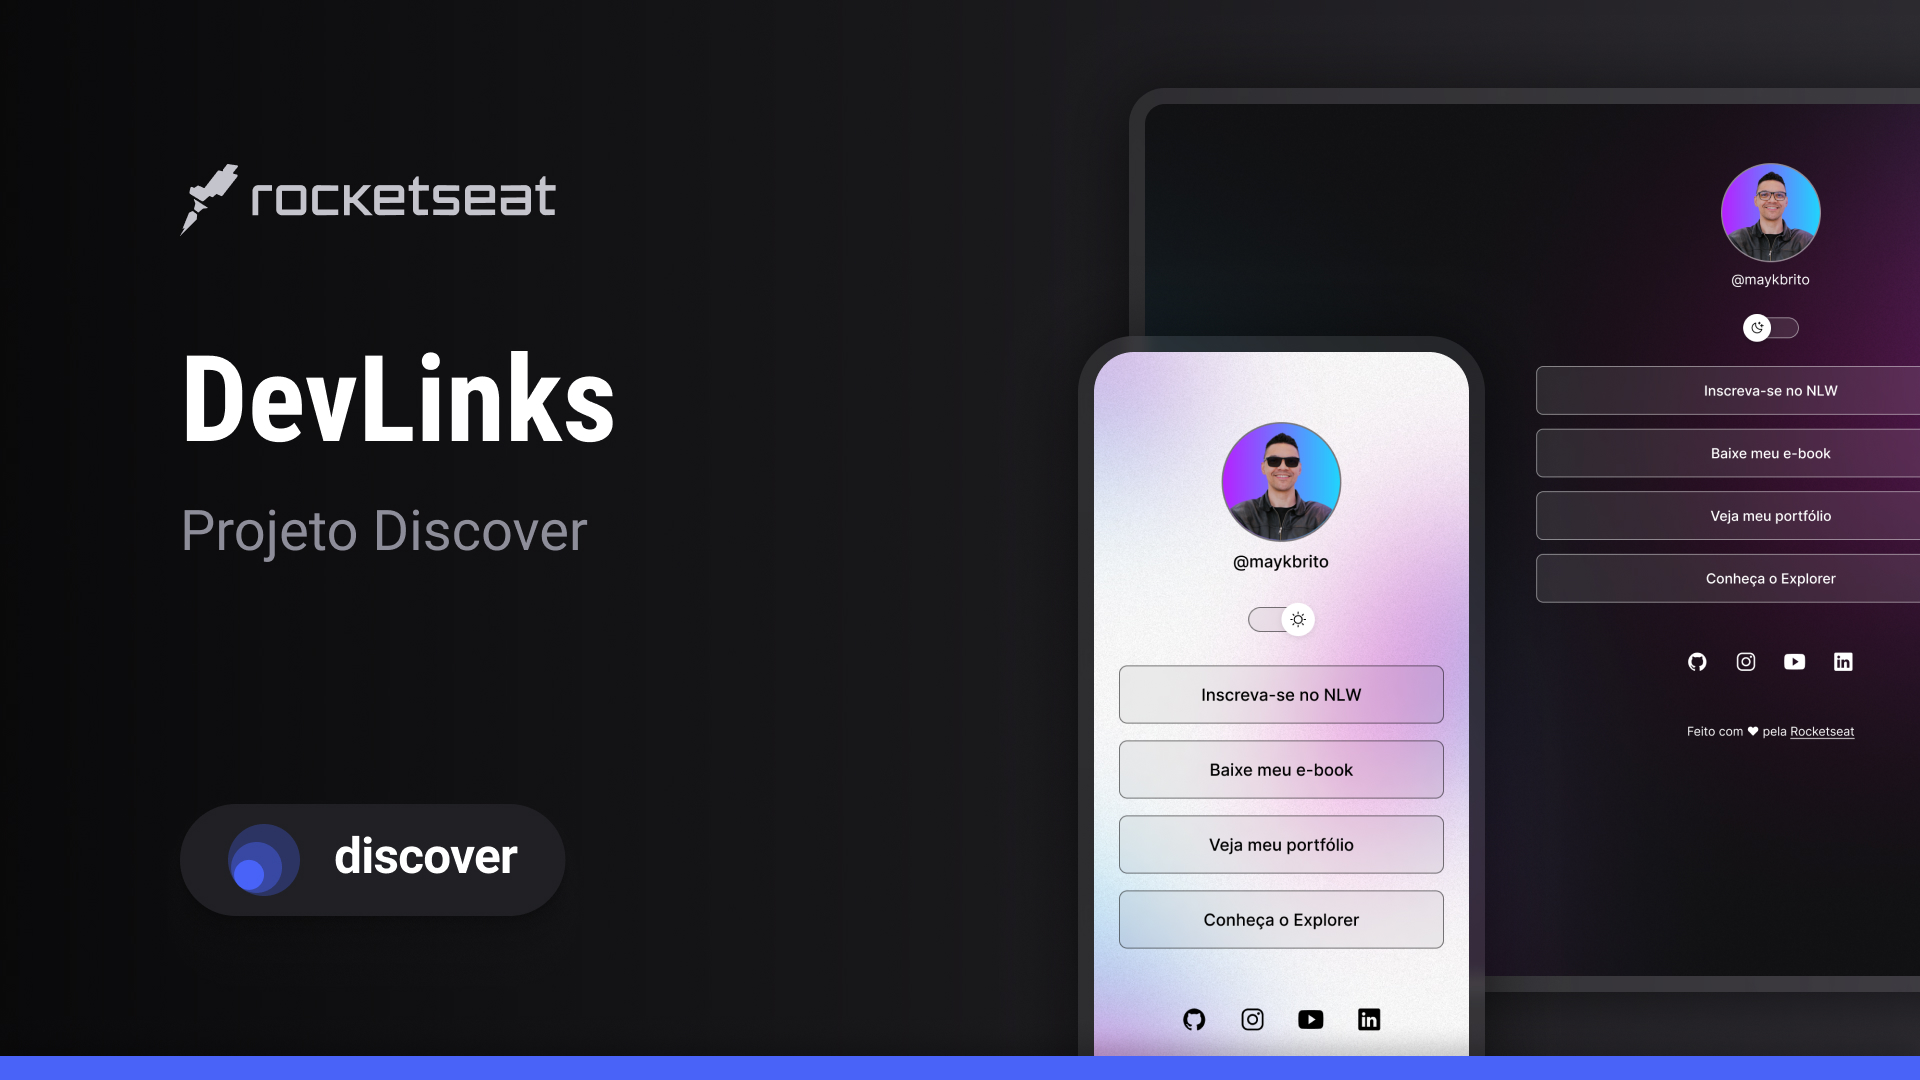
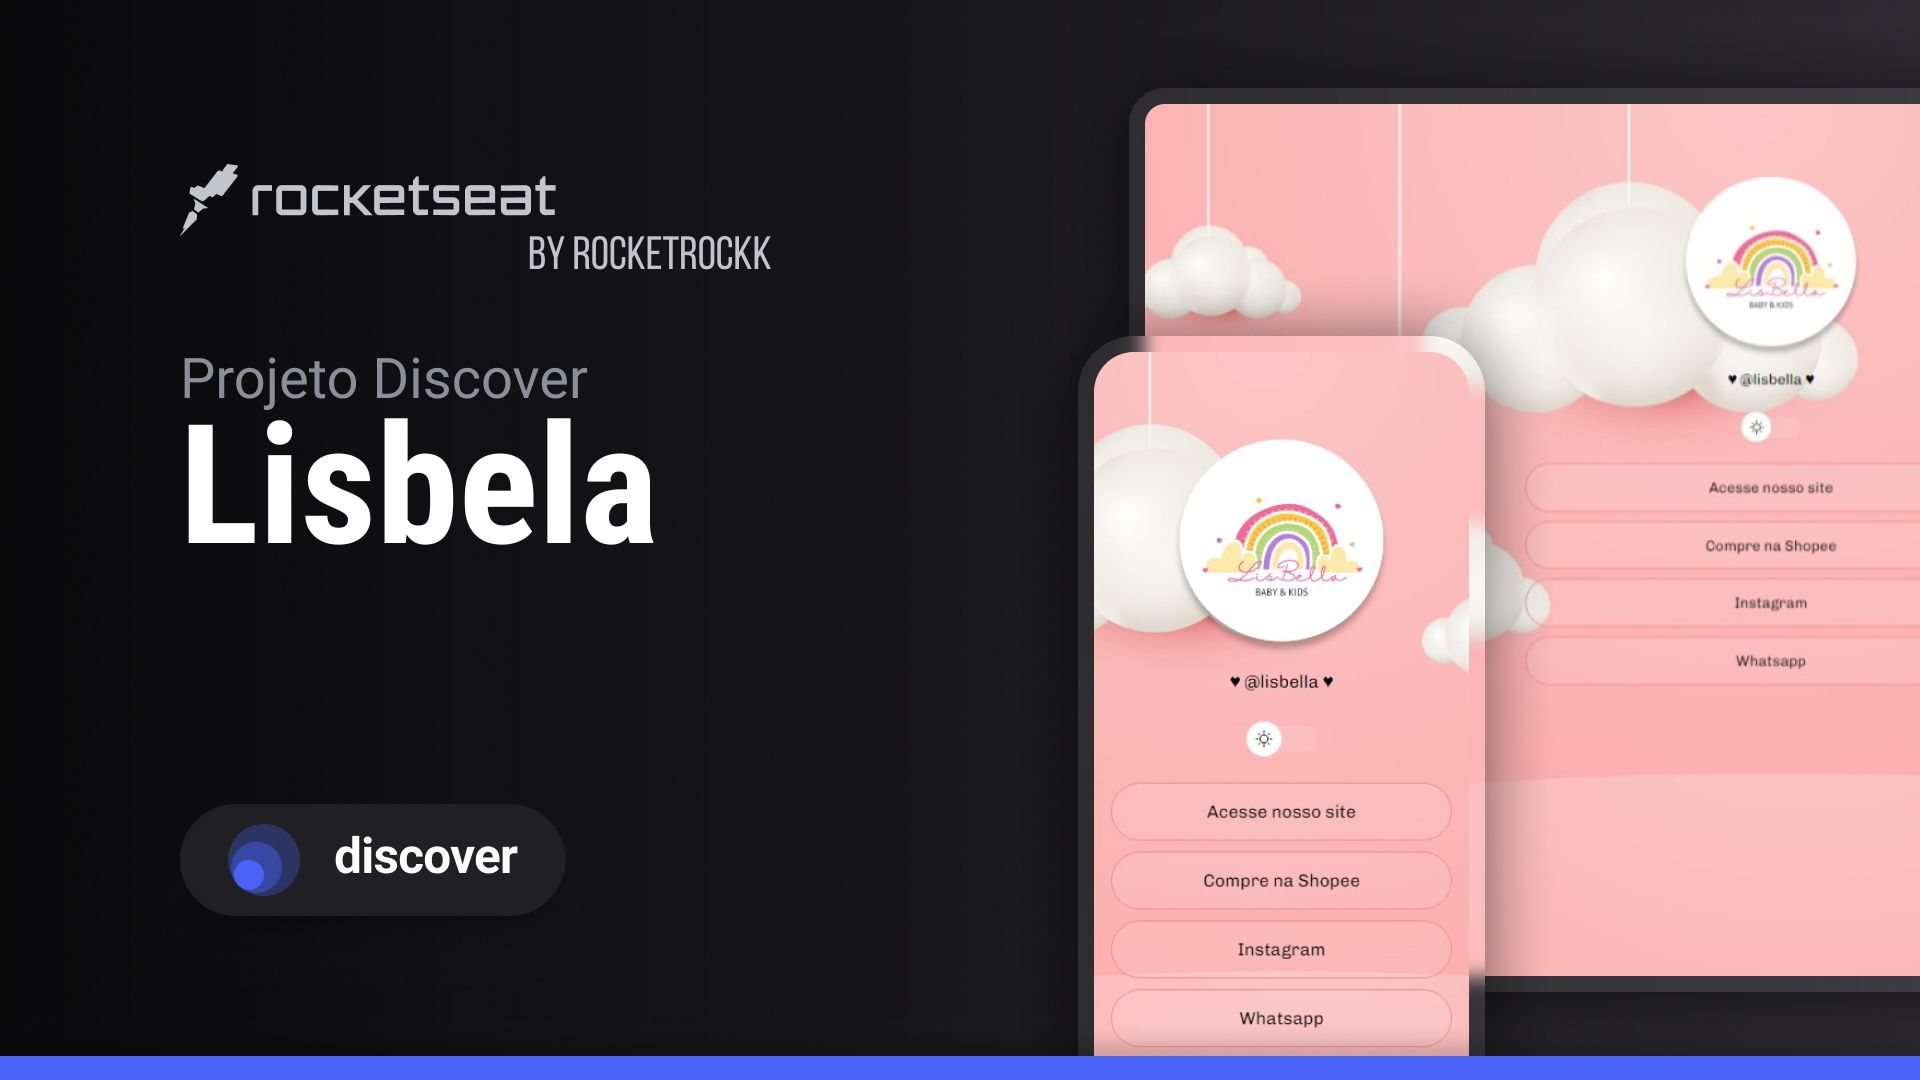
README edit

diff --git a/README.md b/README.md
@@ -1,4 +1,4 @@
-<h1 align="center"> DevLinks </h1>
+<h1 align="center"> Lisbela </h1>
 
 <p align="center">
 Programa exclusivo e gratuito, promovido pela Rocketseat para ensino de tecnologias WEB. <br/>
@@ -19,7 +19,7 @@ Programa exclusivo e gratuito, promovido pela Rocketseat para ensino de tecnolog
 <br>
 
 <p align="center">
-  <img alt="projeto DevLinks" src=".github/preview.jpg" width="100%">
+  <img alt="projeto Lisbela" src=".github/preview.jpg" width="100%">
 </p>
 
 ## 🚀 Tecnologias
@@ -33,9 +33,9 @@ Esse projeto foi desenvolvido com as seguintes tecnologias:
 
 ## 💻 Projeto
 
-O DevLinks é um agregador de links para usar como cartão de visitas online.
+O Lisbela é um agregador de links para usar como cartão de visitas online.
 
-- [Acesse o projeto finalizado, online](https://maykbrito.github.io/devlinks)
+- [Acesse o projeto finalizado, online](https://rocketrockk.github.io/lisbela)
 
 - [Assistir aulas](https://lp.rocketseat.com.br/devlinks/inscricao?utm_source=github&utm_medium=descricao&utm_campaign=capture-devlinks&utm_term=organic&utm_content=descricao-github-mayk-brito)
 
